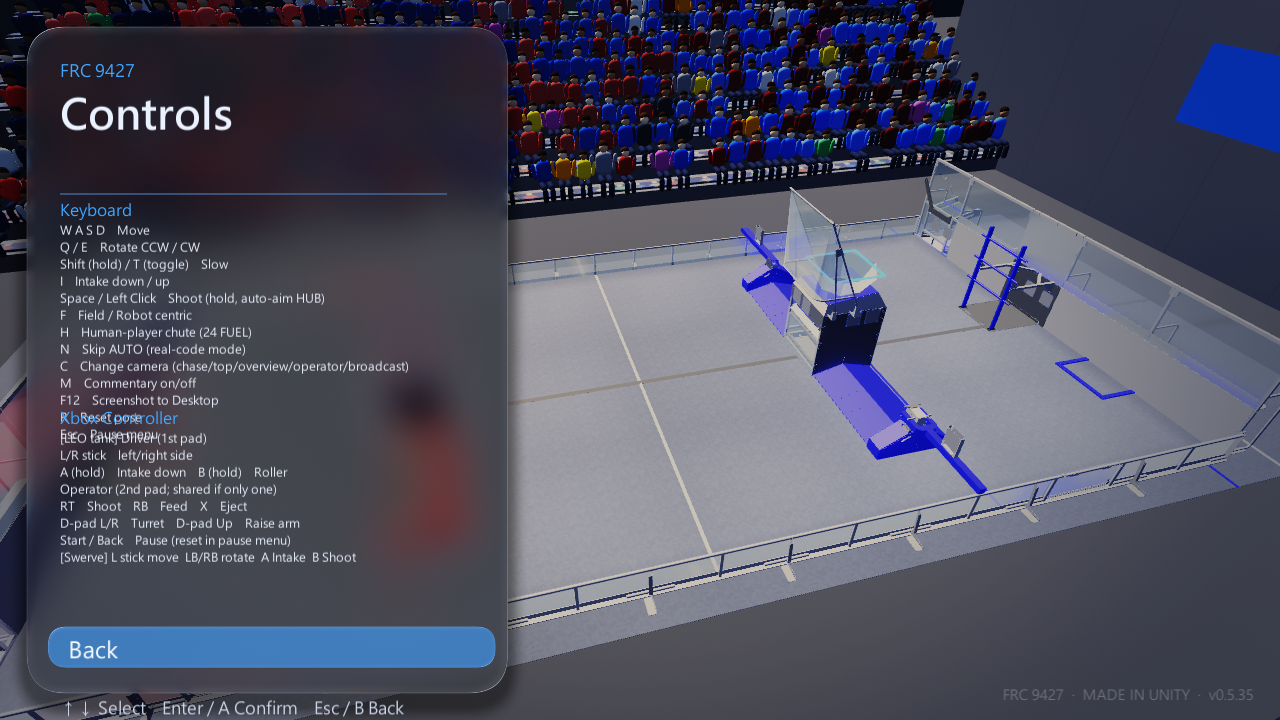
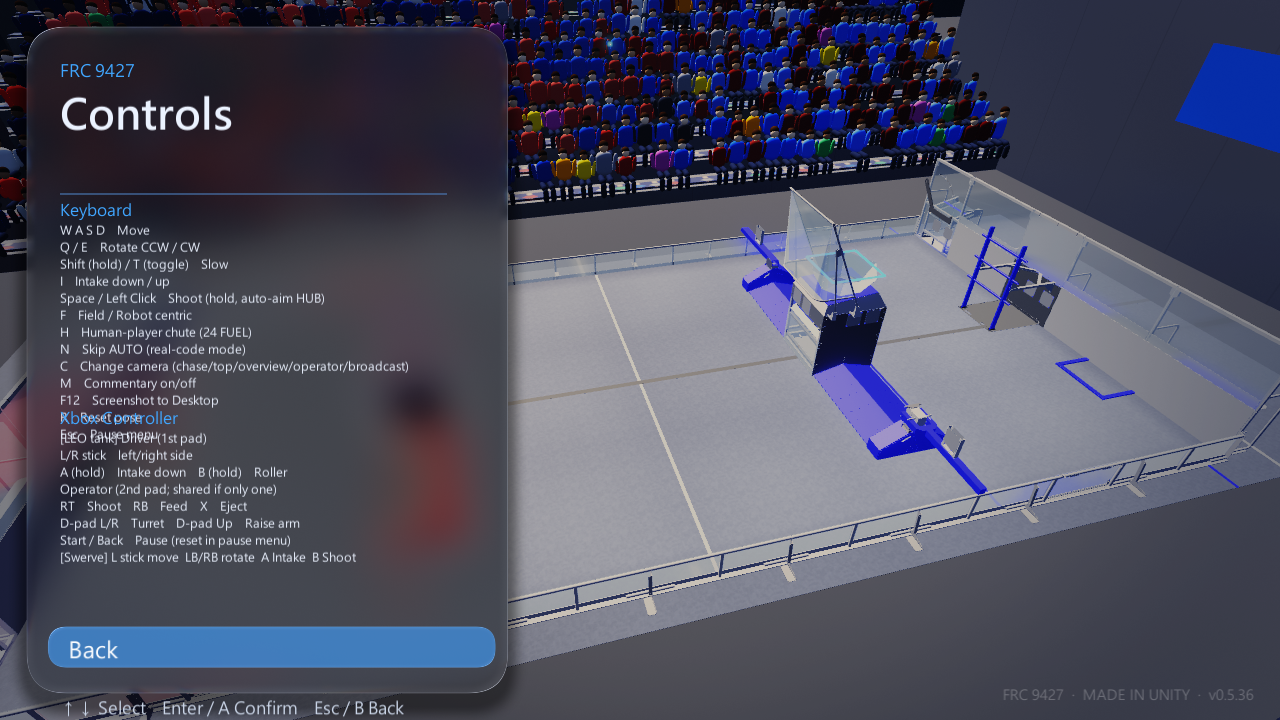
v0.5.36 presets two-line

diff --git a/Assets/Scripts/UI/MenuSystem.cs b/Assets/Scripts/UI/MenuSystem.cs
@@ -333,7 +333,7 @@ namespace FrcSim
             for (int i = 0; i < MechPresets.All.Length; i++)
             {
                 int i2 = i; var p = MechPresets.All[i];
-                l.Add(new Item(() => (PlayerPrefs.HasKey("mechPreset") && Prefs.GetInt("useRealCode", 0) == 0 && MechPresets.Index == i2 ? "✓ " : "") + Z(p.ZhName, p.EnName) + "  —  " + Z(p.ZhDesc, p.EnDesc), () => MechPresets.Choose(i2)));
+                l.Add(new Item(() => (PlayerPrefs.HasKey("mechPreset") && Prefs.GetInt("useRealCode", 0) == 0 && MechPresets.Index == i2 ? "✓ " : "") + Z(p.ZhName, p.EnName), () => MechPresets.Choose(i2)) { Sub = () => Z(p.ZhDesc, p.EnDesc) });
             }
             return l.ToArray();
         }        Item[] ModelLibItems()
@@ -676,6 +676,7 @@ namespace FrcSim
         }
     }
 }
+
 
 
 

diff --git a/Assets/Scripts/Sim/UpdateCheck.cs b/Assets/Scripts/Sim/UpdateCheck.cs
@@ -17,7 +17,7 @@ namespace FrcSim
     //   找不到差異包(或失敗)時退回「開啟下載頁」,讓使用者手動下載完整版。
     public class UpdateCheck : MonoBehaviour
     {
-        public const string Current = "0.5.35";
+        public const string Current = "0.5.36";
         const string Repo = "frc9427liu-tech/FRC9427-SimApp";
         const string ReleasesApi = "https://api.github.com/repos/" + Repo + "/releases?per_page=30";
         public const string Page = "https://github.com/" + Repo + "/releases/latest";
@@ -235,6 +235,7 @@ Start-Process -FilePath $Exe -WorkingDirectory $Dst
 ";
     }
 }
+
 
 
 
